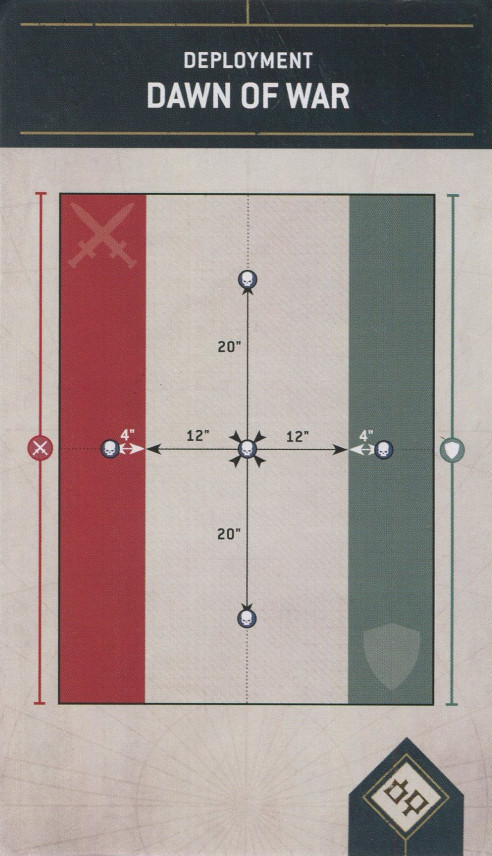
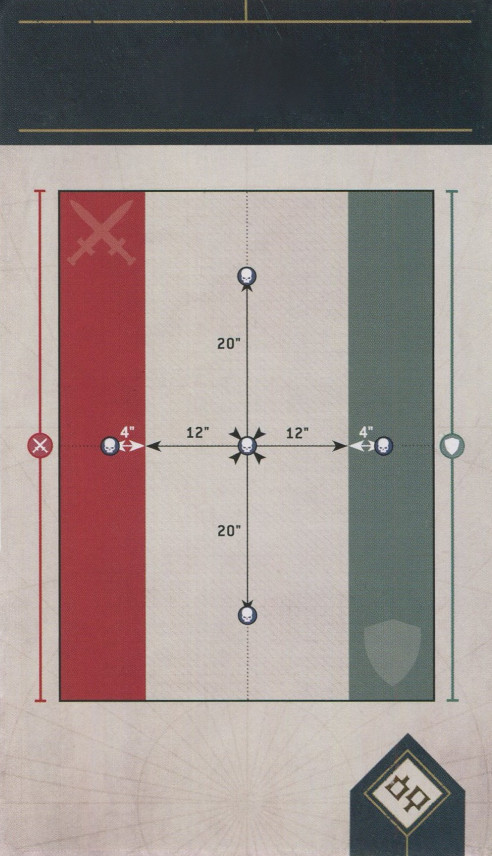
Final version of Leviathan mission deck, slight adjustments to font size and spacing;  Updated main landing page to point towards mission deck selector.

diff --git a/app/cards/(all_cards)/leviathan/leviathan_cards.tsx b/app/cards/(all_cards)/leviathan/leviathan_cards.tsx
@@ -68,7 +68,7 @@ const leviathanPrimaryMissionCards: Array<MissionCard> = [
           by the player that controls it. When moving objective markers, they cannot end that move on top of any other objective marker or model, or insize impassable parts of terrain<br />
           features (such as the walls of a ruin).
         </p>
-        <div className={styles.primaryMissionHeader}>In the second, third and fourth battle rounds:</div>
+        <div className={styles.primaryMissionHeader}>In the second, third, fourth and fifth battle rounds:</div>
         <p>At the end of each turn, the player whose turn it is scores VP<br />as follows:</p>
         <ul className={styles.missionCardList}>
           <li><span>2VP for each servo-skull that is wholly within 12" of their opponent's deployment zone.</span></li>
@@ -103,7 +103,7 @@ const leviathanPrimaryMissionCards: Array<MissionCard> = [
         <div className={styles.primaryMissionHeader}>In the second, third and fourth battle rounds:</div>
         <p>At the end of each Command phase, the player whose turn it<br />is scores 4VP if they control one or more objective markers, and an extra 4VP if they control more objective markers than their opponent controls.</p>
         <div className={styles.primaryMissionHeader}>In the fifth battle round:</div>
-        <ul className={styles.missionCardList}>
+        <ul className={`${styles.missionCardList} ${styles.primaryMissionCardListAfterHeader}`}>
           <li><span>The player who has the first turn scores VP as<br />described above.</span></li>
           <li><span>The player who has the second turn scores VP as described above, but does so at the end of their turn instead of at the end of their Command phase.</span></li>
         </ul>
@@ -120,7 +120,7 @@ const leviathanPrimaryMissionCards: Array<MissionCard> = [
     flavorText: "Bitter foes clash in a race to finish a ritual to either sanctify or corrupt the battlefield.",
     bodyText: (
       <>
-        <p>When setting up the battlefield, remove all objective markers<br />in No Man's Land except the one closest to the centre of the battlefield.</p>
+        <p>When setting up the battlefield, remove all objective markers<br />in No Man's Land except the one closest to the centre of<br />the battlefield.</p>
         <p>
           In each player's Shooting phase, the player whose turn it is<br />can select one unit from their army that is not Battle-shocked and is eligible to shoot.
           Until the end of that turn, that unit<br />is not eligible to shoot or declare a charge. At the end of that turn, the player whose turn it is can set up one objective
@@ -129,7 +129,7 @@ const leviathanPrimaryMissionCards: Array<MissionCard> = [
         <div className={styles.primaryMissionHeader}>In the second, third and fourth battle rounds:</div>
         <p>At the end of each Command phase, the player whose turn it<br />is scores 5VP for each objective marker in No Man's Land they control (up to 15VP per turn).</p>
         <div className={styles.primaryMissionHeader}>In the fifth battle round:</div>
-        <ul className={styles.missionCardList}>
+        <ul className={`${styles.missionCardList} ${styles.primaryMissionCardListAfterHeader}`}>
           <li><span>The player who has the first turn scores VP as<br />described above.</span></li>
           <li><span>The player who has the second turn scores VP as described above, but does so at the end of their<br />turn instead of at the end of their<br />Command phase.</span></li>
         </ul>
@@ -151,7 +151,7 @@ const leviathanPrimaryMissionCards: Array<MissionCard> = [
         <div className={styles.primaryMissionHeader}>In the second, third and fourth battle rounds:</div>
         <p>At the end of each Command phase, the player whose turn it<br />is scores 5VP for each objective marker they control (up to 10VP per turn).</p>
         <div className={styles.primaryMissionHeader}>In the fifth battle round:</div>
-        <ul className={styles.missionCardList}>
+        <ul className={`${styles.missionCardList} ${styles.primaryMissionCardListAfterHeader}`}>
           <li><span>The player who has the first turn scores VP as<br />described above.</span></li>
           <li><span>The player who has the second turn scores VP as described above, but does so at the end of their turn instead of at the end of their Command phase.</span></li>
         </ul>
@@ -182,7 +182,7 @@ const leviathanPrimaryMissionCards: Array<MissionCard> = [
         </ul>
         <p>Note that these are cumulative, so a player that controls one objective marker they have also empowered will score 6VP<br />that turn.</p>
         <div className={styles.primaryMissionHeader}>In the fifth battle round:</div>
-        <ul className={styles.missionCardList}>
+        <ul className={`${styles.missionCardList} ${styles.primaryMissionCardListAfterHeader}`}>
           <li><span>The player who has the first turn scores VP as<br />described above.</span></li>
           <li><span>The player who has the second turn scores VP as described above, but does so at the end of their turn instead of at the end of their Command phase.</span></li>
         </ul>
@@ -206,7 +206,7 @@ const leviathanPrimaryMissionCards: Array<MissionCard> = [
         <div className={styles.primaryMissionHeader}>In the fourth battle round:</div>
         <p>At the end of each Command phase, the player whose turn<br />it is scores 8VP for each objective marker they control in No Man's Land.</p>
         <div className={styles.primaryMissionHeader}>In the fifth battle round:</div>
-        <ul className={styles.missionCardList}>
+        <ul className={`${styles.missionCardList} ${styles.primaryMissionCardListAfterHeader}`}>
           <li><span>The player who has the first turn scores 15VP at the end of their Command phase if they control the objective marker in No Man's Land.</span></li>
           <li><span>The player who has the second turn scores 15VP at the<br />end of their turn if they control the objective marker in No Man's Land.</span></li>
         </ul>
@@ -223,7 +223,7 @@ const leviathanPrimaryMissionCards: Array<MissionCard> = [
         <div className={styles.primaryMissionHeader}>In the second, third and fourth battle rounds:</div>
         <p>At the end of each Command Phase, the player whose turn it<br />is scores 5VP for each objective marker they control (up to<br />15VP per turn).</p>
         <div className={styles.primaryMissionHeader}>In the fifth battle round:</div>
-        <ul className={styles.missionCardList}>
+        <ul className={`${styles.missionCardList} ${styles.primaryMissionCardListAfterHeader}`}>
           <li><span>The player who has the first turn scores VP as<br />described above.</span></li>
           <li><span>The player who has the second turn scores VP as described above, but does so at the end of their turn instead of at the end of their Command phase.</span></li>
         </ul>
@@ -247,7 +247,7 @@ const leviathanPrimaryMissionCards: Array<MissionCard> = [
           <li><span>If they control the objective marker in their opponent's deployment zone, they score 6VP.</span></li>
         </ul>
         <div className={styles.primaryMissionHeader}>In the fifth battle round:</div>
-        <ul className={styles.missionCardList}>
+        <ul className={`${styles.missionCardList} ${styles.primaryMissionCardListAfterHeader}`}>
           <li><span>The player who has the first turn scores VP as<br />described above.</span></li>
           <li><span>The player who has the second turn scores VP as described above, but does so at the end of their turn instead of at the end of their Command phase.</span></li>
         </ul>
@@ -300,7 +300,7 @@ const leviathanSecondaryMissionCards: Array<MissionCard> = [
           <li><span>All <span className={styles.cardKeyword}>Character</span> units from your opponent's Army Roster have been destroyed during the battle.</span></li>
         </ul>
         <p>
-          Noe that if you are using Tactical Missions, this Secondary Mission is achieved even if such a unit<br />
+          Note that if you are using Tactical Missions, this Secondary Mission is achieved even if such a unit<br />
           was destroyed and then subsuquently resurrected for any reason.
         </p>
       </>
@@ -759,9 +759,9 @@ const leviathanGambitCards: Array<MissionCard> = [
     flavorText: "The whole battle was a ruse to buy our covert kill teams the time they need to successfully complete a mission that could turn the tide of the entire war.",
     bodyText: (
       <>
-        <p><strong style={{ color: 'red', textTransform: 'uppercase' }}>Determine Distraction Target:</strong> Your Distraction target will be equal to half the number of enemy units that are within Engagement Range of one or more<br />units from your army (rounding up) at the end of your fifth turn. If your Distraction target is less than 4, it is increased to 4.</p>
-        <p><strong style={{ color: 'red', textTransform: 'uppercase' }}>Distract Enemy Units:</strong> At the end of your fifth<br />turn, roll one D6 for each enemy unit that is within Engagement Range of one or more units from<br />your army. Add 1 to the result if that enemy unit is Battle-shocked and subtract 1 if one or more of the units from your army that are within Engagement Range of it are Battle-shocked. On a 4+, that enemy unit has been successfully delayed.</p>
-        <p><strong style={{ color: 'red', textTransform: 'uppercase' }}>Determine Gambit Success:</strong> If the number of enemy units that have been successfully delayed is greater than or equal to your Distraction target, this Gambit is successfully completed and you score 30VP.</p>
+        <p><strong>Determine Distraction Target:</strong> Your Distraction target will be equal to half the number of enemy units that are within Engagement Range of one or more<br />units from your army (rounding up) at the end of your fifth turn. If your Distraction target is less than 4, it is increased to 4.</p>
+        <p><strong>Distract Enemy Units:</strong> At the end of your fifth<br />turn, roll one D6 for each enemy unit that is within Engagement Range of one or more units from<br />your army. Add 1 to the result if that enemy unit is Battle-shocked and subtract 1 if one or more of the units from your army that are within Engagement Range of it are Battle-shocked. On a 4+, that enemy unit has been successfully delayed.</p>
+        <p><strong>Determine Gambit Success:</strong> If the number of enemy units that have been successfully delayed is greater than or equal to your Distraction target, this Gambit is successfully completed and you score 30VP.</p>
       </>
     )
   },
@@ -772,9 +772,9 @@ const leviathanGambitCards: Array<MissionCard> = [
     flavorText: "Remaining in this battlezone is folly. Teleportariums are being sanctified and orbital transports are inbound  to exfiltrate what forces remain. Prepare for immediate extraction.",
     bodyText: (
       <>
-        <p><strong style={{ color: 'red', textTransform: 'uppercase' }}>Determine Evacuation Target:</strong> Your Evacuation<br />target will be equal to half the number of units from your army that are on the battlefield at the end of the battle (rounding up), including units embarked within <span className={styles.cardKeyword}>Transport</span> models that are on the battlefield. If your Evacuation target is less than 4, it is increased to 4.</p>
-        <p><strong style={{ color: 'red', textTransform: 'uppercase' }}>Evacuate Units:</strong> At the end of your fifth turn, roll one D6 for each unit from your army that is wholly within<br />6" of the centre of the battlefield, subtracting 1 from the result if that unit is Battle-shocked. On a 4+, that unit (and any units embarked within it) are marked<br />for evacuation.</p>
-        <p><strong style={{ color: 'red', textTransform: 'uppercase' }}>Determine Gambit Success:</strong> If the number of your units that are marked for evacuation is greater than<br />or equal to your Evacuation target, this Gambit is successfully completed and you score 30VP.</p>
+        <p><strong>Determine Evacuation Target:</strong> Your Evacuation<br />target will be equal to half the number of units from your army that are on the battlefield at the end of the battle (rounding up), including units embarked within <span className={styles.cardKeyword}>Transport</span> models that are on the battlefield. If your Evacuation target is less than 4, it is increased to 4.</p>
+        <p><strong>Evacuate Units:</strong> At the end of your fifth turn, roll one D6 for each unit from your army that is wholly within<br />6" of the centre of the battlefield, subtracting 1 from the result if that unit is Battle-shocked. On a 4+, that unit (and any units embarked within it) are marked<br />for evacuation.</p>
+        <p><strong>Determine Gambit Success:</strong> If the number of your units that are marked for evacuation is greater than<br />or equal to your Evacuation target, this Gambit is successfully completed and you score 30VP.</p>
       </>
     )
   },

diff --git a/css/Cards.module.css b/css/Cards.module.css
@@ -58,6 +58,26 @@
   transition: transform 0.5s ease-in-out;
 }
 
+/* TEMPORARY */
+.missionDeckSelectorDisabled {
+  cursor: not-allowed;
+}
+
+.missionDeckSelectorDisabledWatermark {
+  text-align: center;
+  text-transform: none;
+  text-decoration: none !important;
+  color: rgb(255, 252, 88);
+  text-shadow: 2px 2px #3B554A;
+  height: 0;
+  position: relative;
+  top: 200px;
+  left: 0px;
+  font-family: Conduit ITC;
+  font-size: 48pt;
+}
+/*************/
+
 .missionDeckImage {
   width: 100%;
   height: auto;
@@ -166,20 +186,21 @@
 }
 
 .cardHeader {
+  font-family: Conduit ITC Bold;
   display: flex;
   align-items: center;
   flex-direction: column;
   text-transform: uppercase;
   height: 75px;
-  letter-spacing: 1;
-  padding-top: 16px;
+  letter-spacing: 0.045rem;
+  padding-top: 1.1rem;
   color: var(--mantine-color-white);
   border-top-left-radius: var(--card-border-radius);
   border-top-right-radius: var(--card-border-radius);
 }
 
 .cardType {
-  height: 16px;
+  height: 15px;
   padding-top: 2px;
   font-size: var(--card-type-font-size);
 }
@@ -191,11 +212,12 @@
 .cardFlavorBodyContainer {
   padding-top: 6px;
   padding-left: 15px;
-  padding-right: 15px;
+  padding-right: 14px;
   color: var(--mantine-color-black);
 }
 
 .cardFlavor {
+  padding: 3px;
   text-align: center;
   font-family: Conduit ITC Italic;
   font-size: var(--card-flavor-font-size);
@@ -210,7 +232,7 @@
   font-family: consolas;
   font-size: 7pt;
   letter-spacing: -1.28px;
-  height: 12px;
+  height: 4px;
   padding: 0;
   margin-left: -2px;
   margin-right: -2px;
@@ -221,7 +243,7 @@
 
 .cardBody {
   padding: 3px;
-  margin-top: -9px;
+  margin-top: -4px;
   font-family: Conduit ITC Light;
   font-size: var(--card-body-font-size);
   line-height: var(--card-line-height);
@@ -243,10 +265,22 @@
   margin: 8px 0;
 }
 
+.cardBodyStrongTextAttacker p strong {
+  font-family: 'Conduit ITC Bold';
+  color: #AA3142;
+  text-transform: uppercase;
+}
+
+.cardBodyStrongTextDefender p strong {
+  font-family: 'Conduit ITC Bold';
+  color: #3B554A;
+  text-transform: uppercase;
+}
+
 .cardFixedIcon {
   position: absolute;
   bottom: 18px;
-  left: 19px;
+  left: 18px;
   height: 26px;
 }
 
@@ -265,11 +299,10 @@
   background-color: var(--mantine-color-primary_mission_header-1);
   color: var(--mantine-color-white);
   text-align: center;
-  vertical-align: center;
-  margin-top: 8px;
-  margin-bottom: -2px;
-  letter-spacing: 0px;
-  height: 12px;
+  margin-top: 9px;
+  margin-bottom: -3px;
+  letter-spacing: 0.009rem;
+  height: 11px;
   line-height: var(--card-line-height);
   font-weight: 500;
 }
@@ -280,6 +313,9 @@
   padding-inline-start: 1.4em;
   margin: 2px;
   margin-right: 0;
+}
+
+.primaryMissionCardListAfterHeader {
   margin-top: 7px;
 }
 
@@ -288,7 +324,7 @@
 }
 
 .missionCardList li::marker {
-  font-size: 10pt;
+  content: '\25A0       '; /* Square bullet, workaround to get bullet to align with text properly. */
   padding-top: 0px;
 }
 
@@ -302,7 +338,7 @@
   display: inline-block;
   font-size: 0.75em;
   text-transform: uppercase;
-  letter-spacing: 0.5px;
+  letter-spacing: 0.7px;
   line-height: 1em;
 }
 .cardKeyword::first-letter {

diff --git a/components/Cards/Card.tsx b/components/Cards/Card.tsx
@@ -49,6 +49,9 @@ export default async function Card({ card, variant = "untyped" } : { card: Missi
     if (card.title === "Bring it Down") {
       classString += ` ${cardStyles.cardBodySmallSecondaryMission}`
     }
+    if (card.type === "Gambit") {
+      classString += ` ${variant === "attacker" ? cardStyles.cardBodyStrongTextAttacker : cardStyles.cardBodyStrongTextDefender}`
+    }
     return classString
   }
 
@@ -57,16 +60,20 @@ export default async function Card({ card, variant = "untyped" } : { card: Missi
   const cardFlavorClassNames = getCardFlavorClassNames(card)
   const cardBodyClassNames = getCardBodyClassNames(card)
 
-  /* Since Deployment cards are just images, they don't need any text overlaid, so the body will be empty. */
+  /* Since Deployment cards have the image as their body, they only need the header. */
   if (card.type === "Deployment") {
     return (
-      <div
-        className={cardStyles.cardContainer}
-      >
-        <div
-          key={cardKey}
-          className={cardClassNames}
-        />
+      <div className={cardStyles.cardContainer}>
+        <div key={cardKey} className={cardClassNames}>
+          <div className={cardStyles.cardHeader}>
+            <div className={cardStyles.cardType}>
+              {card.type}
+            </div>
+            <div className={cardStyles.cardTitle}>
+              <strong>{card.title}</strong>
+            </div>
+          </div>
+        </div>
       </div>
     )
   }
@@ -77,7 +84,7 @@ export default async function Card({ card, variant = "untyped" } : { card: Missi
       <div key={cardKey} className={cardClassNames}>
         <div className={cardStyles.cardHeader}>
           <div className={cardStyles.cardType}>
-            {card.type}{card.type === "Gambit" || card.type === "Secondary Mission" ? " – Attacker" : ""}
+            {card.type}{card.type === "Gambit" || card.type === "Secondary Mission" ? ` – ${variant}` : ""}
           </div>
           <div className={cardStyles.cardTitle}>
             <strong>{card.title}</strong>

diff --git a/app/cards/page.tsx b/app/cards/page.tsx
@@ -49,13 +49,17 @@ export default function CardsPage() : React.ReactNode {
           </button>
         </Link>
         <div className={cardStyles.missionDeckSelectorSpacer} />
-        <Link href="/cards/pariah-nexus">
+        <Link href="/cards/pariah-nexus" style={{ textDecoration: 'none' }}>
           <button
             type="button"
+            disabled
             onMouseOver={() => changeBg('url(/Pariah_Nexus_Background.png)')}
             onMouseOut={() => changeBg('url(/transparent_1px.png)')}
-            className={cardStyles.missionDeckSelector}
+            className={`${cardStyles.missionDeckSelector} ${cardStyles.missionDeckSelectorDisabled}`}
           >
+            <div className={cardStyles.missionDeckSelectorDisabledWatermark}>
+              UNDER<br />CONSTRUCTION
+            </div>
             <Image
               src="/Mission_Deck_Pariah_Nexus.png"
               alt="Pariah Nexus Mission Deck"

diff --git a/app/cards/(all_cards)/pariah-nexus/page.tsx b/app/cards/(all_cards)/pariah-nexus/page.tsx
@@ -1,0 +1,17 @@
+import Link from "next/link"
+import { Button } from "@mantine/core"
+
+export default async function PariahNexusCardShowcase(): Promise<React.ReactNode> {
+  return (
+    <>
+    <div style={{ height: 'var(--mantine-scrollarea-height)', display: 'flex', flexDirection: 'column', justifyContent: 'center', alignItems: 'center', fontSize: '36pt', fontFamily: 'Conduit ITC Bold', color: 'light-dark(var(--mantine-primary-color-9), var(--mantine-primary-color-1))' }}>
+      This page is currently under construction
+      <Link href="/cards/">
+        <Button size="xl">
+          Go Back
+        </Button>
+      </Link>
+    </div>
+  </>
+  )
+}

diff --git a/css/Cards.css b/css/Cards.css
@@ -1,6 +1,6 @@
 /* Define some variables used in card formatting, so they can be controlled from this file */
 html {
-  --card-width: 256px;
+  --card-width: 254px;
   --card-height: 440px;
   --card-margin: 10px;
   --card-hover-scale: 1.04;
@@ -10,7 +10,7 @@ html {
   --card-border-radius: 12px;
   --card-type-font-size: 9pt;
   --card-title-font-size: 14pt;
-  --card-flavor-font-size: 8.35pt;
+  --card-flavor-font-size: 8.1pt;
   --card-flavor-font-size-small: 7.4pt !important;
   --card-body-font-size: 8.1pt;
   --card-body-primary-mission-font-size: 7.1pt;

diff --git a/app/page.tsx b/app/page.tsx
@@ -14,10 +14,10 @@ export default function HomePage() {
         < br/>
         <p>
           It's very much still a work in progress, there will be more to come.<br />
-          Right now, all you can do is look at the<br /><br />
-          <Link href="/cards/leviathan">
+          Right now, all you can do is view the mission decks:<br /><br />
+          <Link href="/cards/">
             <Button size="xl">
-              Leviathan Mission Deck
+              Mission Decks
             </Button>
           </Link>
         </p>

diff --git a/theme.ts b/theme.ts
@@ -13,7 +13,7 @@ export const theme = createTheme({
   colors: {
     light: lightmode,
     dark: darkmode,
-    primary_mission_header: colorsTuple('#0C4D6B'),
+    primary_mission_header: colorsTuple('#385366'),
     primary: virtualColor({
       name: 'primary',
       light: 'light',
